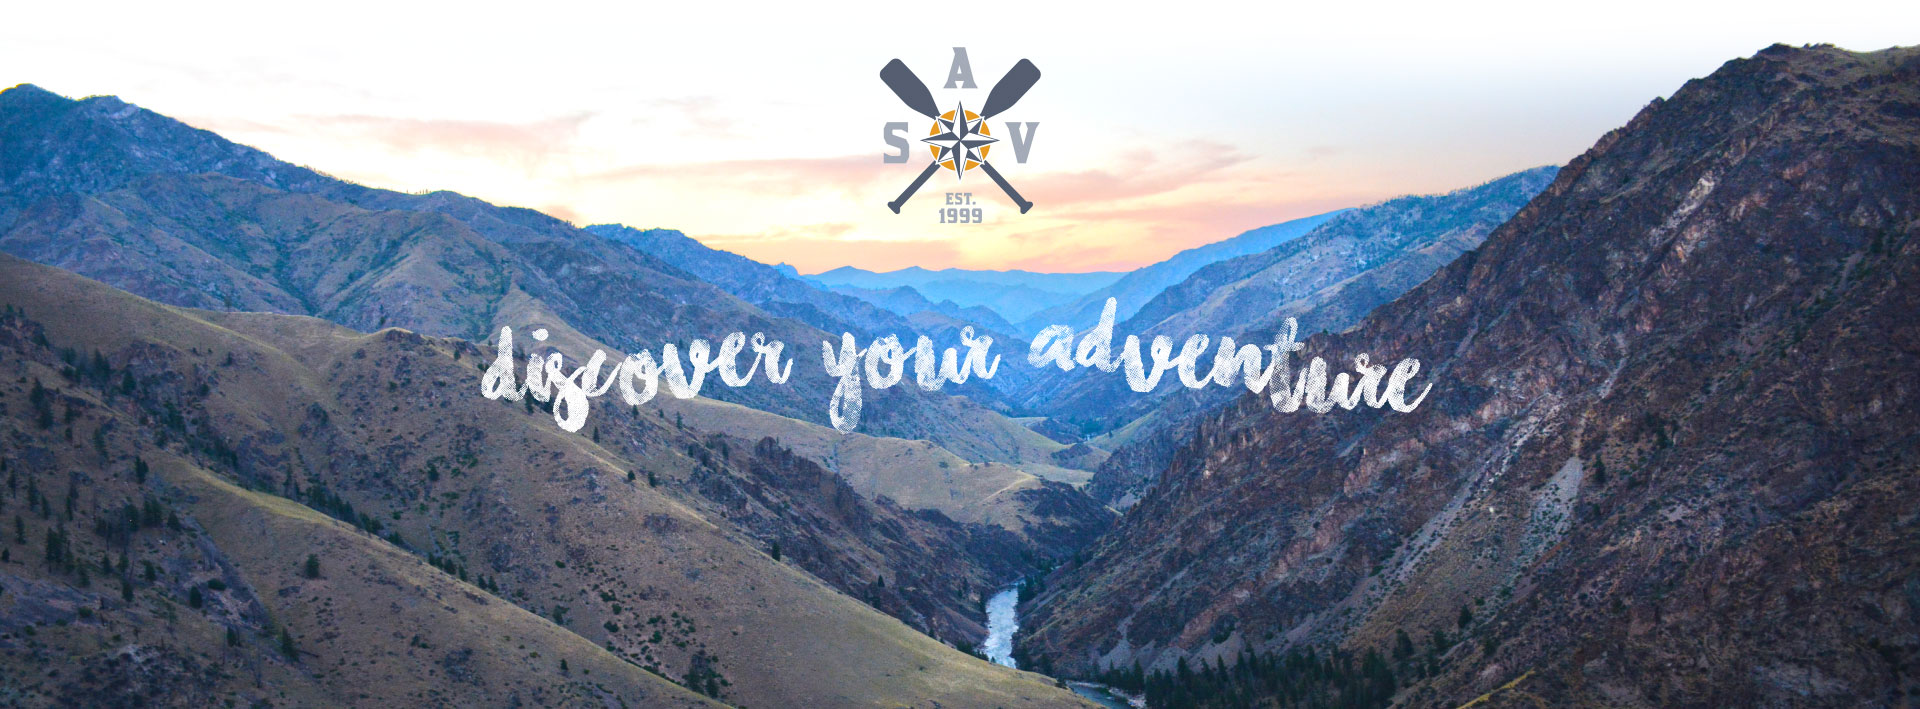
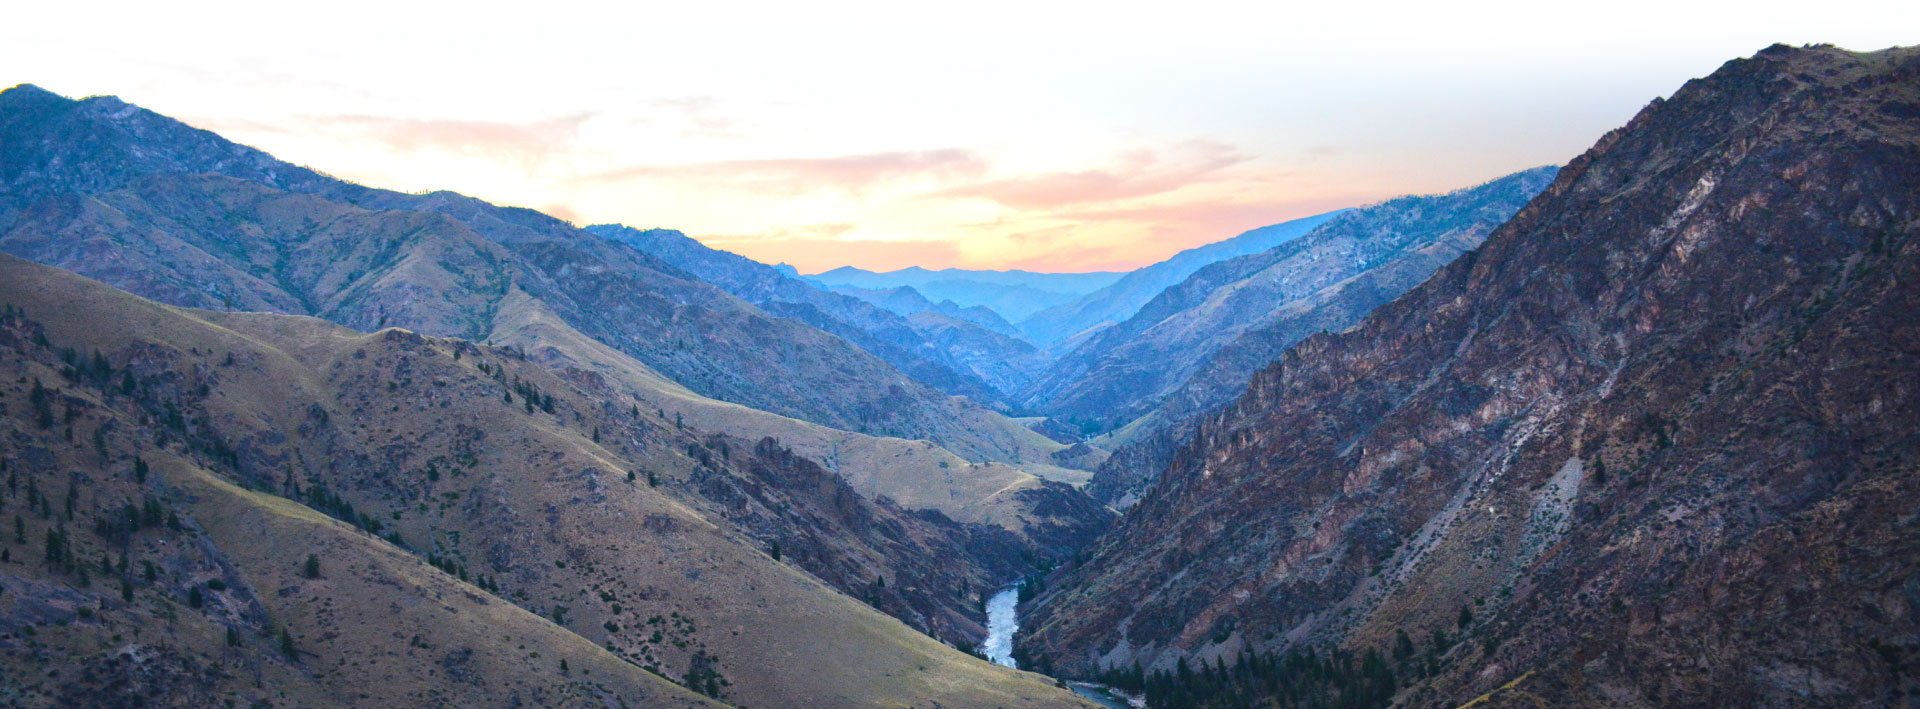
discover adventure form update to use separate images

Changed region(s): [[0.25, 0.4344, 0.75, 0.6206], [0.4375, 0.0621, 0.5625, 0.3103]]

diff --git a/resources/assets/styles/layouts/_sections.scss b/resources/assets/styles/layouts/_sections.scss
@@ -34,12 +34,13 @@ section.header-adventure {
 
 section.discover-adventure {
   background: url("../images/background-discover-adventure.jpg") center;
-  padding-top: 450px;
+  padding-top: 50px;
   height: 709px; //259px;
+  text-align: center;
 
   h2 {
     color: #54d5f7;
-    margin: auto;
+    margin: 20px auto 0;
     font-size: 24px;
     text-align: center;
     text-transform: uppercase;
@@ -57,6 +58,10 @@ section.discover-adventure {
     }
   }
 
+  .discover-your-adventure-text {
+    margin-top: 60px;
+  }
+  
   /* g form specific */
   .gform_wrapper {
     .gform_heading,

diff --git a/resources/views/partials/sections/form-discover-adventure.blade.php b/resources/views/partials/sections/form-discover-adventure.blade.php
@@ -1,14 +1,15 @@
 <section class="container-fluid discover-adventure">
   <div class="container">
     <div class="row">
-      <h2>HAVE SOME QUESTIONS ABOUT YOUR TRIP?</h2>
-      {!! do_shortcode('[gravityform id="1"]') !!}
+
+      <div class="col-md-12 logo"><img src="@asset('images/logo-footer.png')" class="img-fluid"/></div>
+      <div class="col-md-12 discover-your-adventure-text">
+        <img src="@asset('images/discover-your-adventure.png')" class="img-fluid"/><br />
+        <h2>HAVE SOME QUESTIONS ABOUT YOUR TRIP?</h2>
+      </div>
+      <div class="col-md-12 col-push-2">
+        {!! do_shortcode('[gravityform id="1"]') !!}
+      </div>
     </div>
-    {{--
-    <form>
-      <input type="text" /> <input type="text" /> <input type="text" /> <br />
-      <textarea></textarea><br />
-      <input type="submit" class="btn btn-primary white" />
-    </form>--}}
   </div>
 </section>
